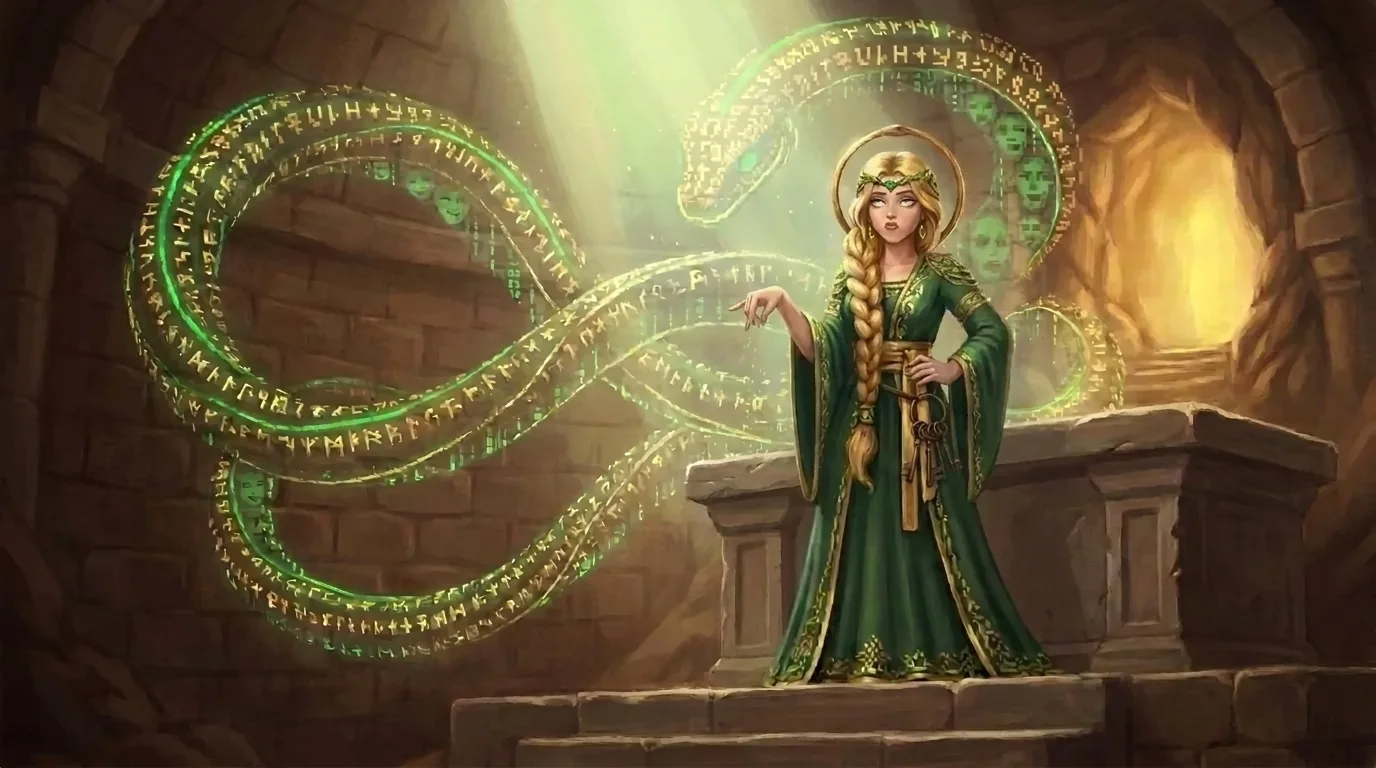
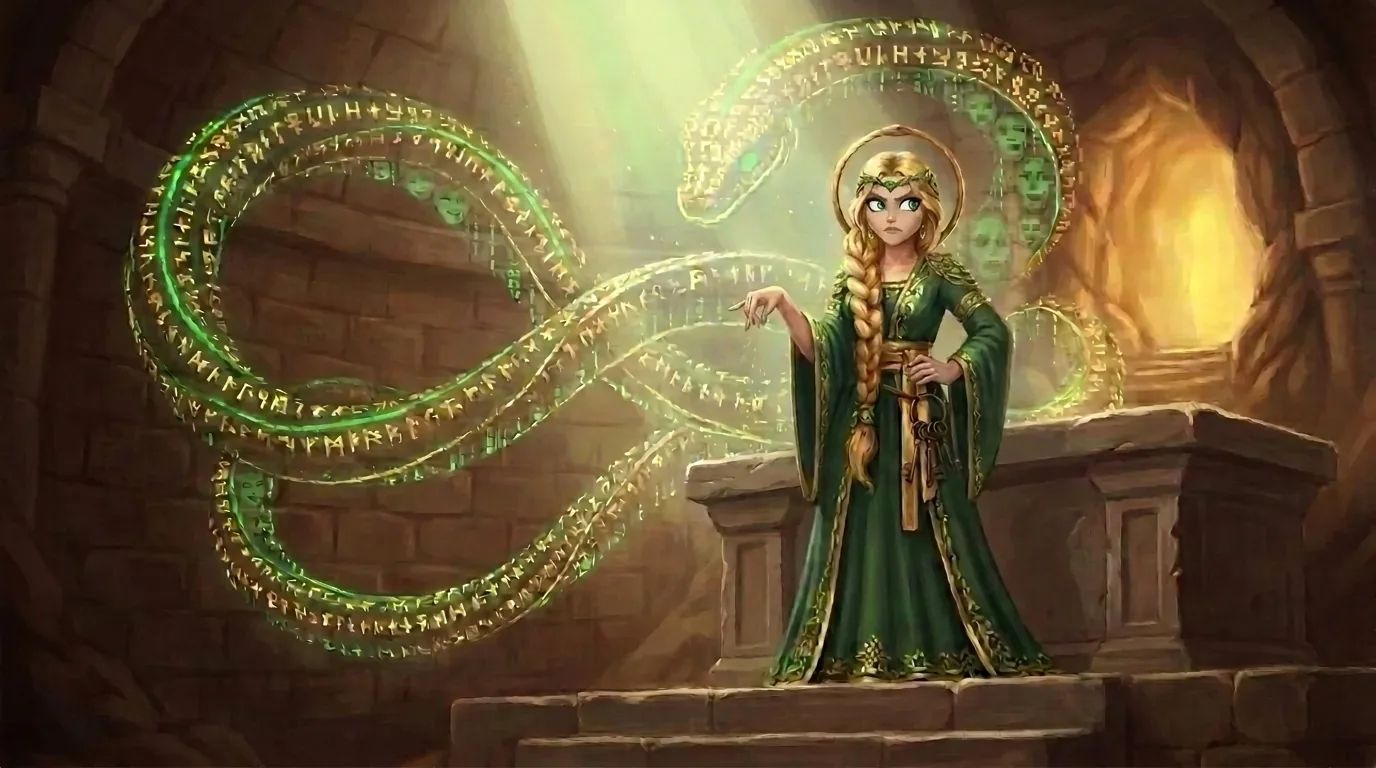
Reveal: Freya's reaction repainted as a flat, exasperated stare toward where Uptima was
Claude-Session: https://claude.ai/code/session_01KB4J3J5G6T3cjiYGmrWroc

diff --git a/game/js/cut-reveal.js b/game/js/cut-reveal.js
@@ -10,8 +10,8 @@
   const still = (id, label) => ['cut-' + id, { src: IMG + id + '.webp', label: id.replace(/-/g, ' ') + (label ? ': ' + label : '') }];
   // The locked pose: A, C and E are the pixel twins of B, D and F (the same frame, converted), so they line up.
   // G to I are the virus after she settles; G2 is G with a closed-mouth grimace; H2 is the promoter in H's pose, flashed twice;
-  // R is her eye-roll after Uptima goes quiet.
-  const PAINTED = { B: 'promoter', D: 'goddess', F: 'virus', G: 'hands folded', G2: 'hands folded, a closed-mouth grimace', H: 'one finger raised', H2: 'promoter, finger raised', R: 'an eye-roll', I: 'the basket' };
+  // R is her exasperated stare after Uptima goes quiet.
+  const PAINTED = { B: 'promoter', D: 'goddess', F: 'virus', G: 'hands folded', G2: 'hands folded, a closed-mouth grimace', H: 'one finger raised', H2: 'promoter, finger raised', R: 'exasperated', I: 'the basket' };
   // Each lead's walk frames and the one with her hand on their shoulder (Ladi, Oct 24): Kai's stops on her hand and Mira's
   // goes from her first step to the hand, as the wide carries her on; Dutch is first in line, so his hand comes second.
   const STEPS = { mira: 3, kai: 3, seoyeon: 4, dutch: 4 }, HANDS = { mira: 2, kai: 3, seoyeon: 3, dutch: 2 };
@@ -96,7 +96,7 @@
         // One finger, and Uptima turns to static; the friendly camp face flashes through twice (Ladi, Oct 22: once was
         // too quick to catch).
         ['cg', H, 'still'], ['sfx', 'static'], ['flick', [[H2, 100], [H, 160], [H2, 100], [H, 0]]], say(w[4]),
-        // "Some people can't take a compliment": Uptima gone, she rolls her eyes and flicks the static off her fingers; then
+        // "Some people can't take a compliment": Uptima gone, a flat, exasperated stare where Uptima was as she flicks the static off her fingers; then
         // the basket (Ladi, Oct 24).
         ['cg', R, 'in'], say(w[5]),
         ['cg', I, 'in'], say(w[6])

diff --git a/game/CREDITS.md b/game/CREDITS.md
@@ -13,7 +13,7 @@ Everything here was first made for or gathered by the first game, [Isekai'd Into
 | Chapter 1's painted prologue art: Mira's tower-stair background and the still of her holding Bram (`assets/img/vn/m1.webp`, `m2.webp`), and the sprites of Mira grieving and Freya smiling (`mira-grief.webp`, `freya-smile.webp`) | Generated for this game with Google's Gemini 3 Pro Image through the Gemini API on Ladi's account on 2026-10-20, painted from Ladi's concept-art picks, then resized (sprites cut out from a flat backdrop) | Used under the [Gemini API Additional Terms of Service](https://ai.google.dev/gemini-api/terms) | The visual-novel prologues (`js/vn.js`) |
 | The rest of the four backstories' stills, one per shot of the backstory storyboard (`assets/img/vn/m2b` to `m3c`, `k1` to `k3c`, `s0a` to `s7c`, `d1` to `d1c`) | Generated for this game with Google's Gemini image model (gemini-nano-banana-2.1) through the Gemini API on Ladi's account on 2026-10-21, from the agreed character designs, the two Mira stills above and Ladi's chosen Freya reference sheet; each Freya shot is an edit of the shot before it, then resized | Used under the [Gemini API Additional Terms of Service](https://ai.google.dev/gemini-api/terms) | The visual-novel prologues (`js/ch1-story.js`) |
 | The opening scene's painted stills: the lightning shots, the pavilion's two angles with Freya's eight faces, the close-ups and inserts, and the closing shot of Freya alone (`assets/img/opening/*.webp`) | Generated for this game with Google's Gemini image model (gemini-nano-banana-2.1) through the Gemini API on Ladi's account on 2026-10-21, from Ladi's chosen Freya reference sheet and the storyboard; faces swapped in with a masked edit, then resized; the ID photos on the files repainted as the four leads (Mira, Kai, Seo-yeon, Dutch, from their PixelLab portraits) the same way, with the hand-on-the-file shot in one version per lead (`s12-<lead>.webp`) | Used under the [Gemini API Additional Terms of Service](https://ai.google.dev/gemini-api/terms) | The opening, "the files" (`js/vec-open.js`) |
-| Chapter 1's reveal stills (`assets/img/cut/reveal-*.webp`): the vault, the party and Freya's walk past each lead, the keys, Freya's faces in the locked pose and the virus after it | Generated for this game with Google's Gemini image model (gemini-3-pro-image-preview) through the Gemini API on Ladi's account on 2026-10-21 and 2026-10-22, from the storyboard (`storyboard/ch1/12-the-reveal.md`), the leads' and Freya's sprites and portraits as references: one wide painting of the vault, widened from the goddess still, and every other shot an edit or a crop of it. The shots were re-staged on 2026-10-22 from a new wide picture: the leads turning to Freya, their shocked close-ups, Uptima faint in the alcove light, the basket with the four presents, and Freya's closed-mouth grimace (`reveal-G2.webp`). `reveal-5.webp` was edited the same day so Freya looks up at Uptima, mouth closed, and Uptima looks down at her; `reveal-1.webp` so Freya in the alcove looks at the keys; `reveal-3.webp` has the leads facing the altar; and `reveal-3b.webp` is a new shot from behind Freya in the doorway, the leads' faces as they turn to her. On 2026-10-24 Freya's walk was redrawn so the motion reads (same model, from the vault picture with everyone but Freya painted out, and Freya's painted still and goddess concept art as references): her leaving the doorway (`reveal-door.webp`), three or four frames past each lead (`reveal-<lead>-w1.webp` on), crossing the empty spot (`reveal-spot.webp`), climbing the steps (`reveal-steps.webp`) and her hand on the keys from behind (`reveal-4d.webp`); Freya was matched to her design in `reveal-1`, `reveal-3` and `reveal-4`, and Uptima in `reveal-5` now looks down at her. Freya's eye-roll after Uptima goes quiet (`reveal-R.webp`) was painted the same day from `reveal-H.webp`. The three pixel glitch frames (`reveal-glitch.webp`: promoter, goddess, virus) are those paintings converted with [PixelLab](https://pixellab.ai)'s image-to-pixel-art on Ladi's subscription | Used under the [Gemini API Additional Terms of Service](https://ai.google.dev/gemini-api/terms) and PixelLab's [Terms of Service](https://pixellab.ai/termsofservice) | Chapter 1's ending (`js/cut-reveal.js`) |
+| Chapter 1's reveal stills (`assets/img/cut/reveal-*.webp`): the vault, the party and Freya's walk past each lead, the keys, Freya's faces in the locked pose and the virus after it | Generated for this game with Google's Gemini image model (gemini-3-pro-image-preview) through the Gemini API on Ladi's account on 2026-10-21 and 2026-10-22, from the storyboard (`storyboard/ch1/12-the-reveal.md`), the leads' and Freya's sprites and portraits as references: one wide painting of the vault, widened from the goddess still, and every other shot an edit or a crop of it. The shots were re-staged on 2026-10-22 from a new wide picture: the leads turning to Freya, their shocked close-ups, Uptima faint in the alcove light, the basket with the four presents, and Freya's closed-mouth grimace (`reveal-G2.webp`). `reveal-5.webp` was edited the same day so Freya looks up at Uptima, mouth closed, and Uptima looks down at her; `reveal-1.webp` so Freya in the alcove looks at the keys; `reveal-3.webp` has the leads facing the altar; and `reveal-3b.webp` is a new shot from behind Freya in the doorway, the leads' faces as they turn to her. On 2026-10-24 Freya's walk was redrawn so the motion reads (same model, from the vault picture with everyone but Freya painted out, and Freya's painted still and goddess concept art as references): her leaving the doorway (`reveal-door.webp`), three or four frames past each lead (`reveal-<lead>-w1.webp` on), crossing the empty spot (`reveal-spot.webp`), climbing the steps (`reveal-steps.webp`) and her hand on the keys from behind (`reveal-4d.webp`); Freya was matched to her design in `reveal-1`, `reveal-3` and `reveal-4`, and Uptima in `reveal-5` now looks down at her. Freya's exasperated stare after Uptima goes quiet (`reveal-R.webp`) was painted the same day from `reveal-H.webp`. The three pixel glitch frames (`reveal-glitch.webp`: promoter, goddess, virus) are those paintings converted with [PixelLab](https://pixellab.ai)'s image-to-pixel-art on Ladi's subscription | Used under the [Gemini API Additional Terms of Service](https://ai.google.dev/gemini-api/terms) and PixelLab's [Terms of Service](https://pixellab.ai/termsofservice) | Chapter 1's ending (`js/cut-reveal.js`) |
 | Chapters 3 to 5's cutscene stills (`assets/img/cut/<cutscene>.webp`, one sheet per cutscene from `ask` to `the-badge-on-the-nail`, plus Chapter 3's earlier cutscenes from `tax-season` to `tell-her-yourself`), one pixel-art still per storyboard shot | Generated for this game with [PixelLab](https://pixellab.ai) on Ladi's subscription on 2026-10-22, from the storyboards (`storyboard/ch3`, `ch4`, `ch5`) with the cast's sprites and each cutscene's wide shot as references. A few were mirrored, and some had one small part repainted (a sheathed knife, a sash, hair colour, windows, the writing in a letter, Kai's gold hand) by Google's Gemini image model (gemini-3-pro-image-preview) through the Gemini API on Ladi's account, snapped back to the still's own pixels and colours | Used under PixelLab's [Terms of Service](https://pixellab.ai/termsofservice); the repaints under the [Gemini API Additional Terms of Service](https://ai.google.dev/gemini-api/terms) | Chapters 3 to 5's cutscenes, in place of the vector stills (`js/cut-ch3.js`, `cut-ch4.js`, `cut-ch4b.js`, `cut-ch5.js`) |
 | The opening's and the backstory cutscenes' voice lines (`assets/audio/vo/*.mp3`) | Generated for this game with Google's Gemini text-to-speech through the Gemini API on Ladi's account on 2026-10-21: Freya and Kagemaru on gemini-3.8-flash-tts (Freya: Despina, Kagemaru: Algenib; `freya-*` and `man-op-*`), Mira and Seo-yeon on gemini-3.8-flash-lite-tts (Mira: Gacrux, Seo-yeon: Kore), Dutch and Kai on gemini-2.5-pro-preview-tts (Dutch: Charon, Kai: Alnilam), and the people they lost on gemini-2.5-pro-preview-tts (Bram: Sadachbia, Hana: Leda, Jin: Fenrir, Old Gu: Enceladus, the Alliance Leader: Iapetus, Lina: Zephyr), trimmed | Used under the [Gemini API Additional Terms of Service](https://ai.google.dev/gemini-api/terms) | The spoken lines in the visual-novel scenes (`js/vo.js`) |
 | Chapter 2's voice lines (`assets/audio/vo/*-c2-*.mp3`) | Generated for this game with Google's Gemini text-to-speech through the Gemini API on Ladi's account on 2026-10-21, 2026-10-22 and 2026-10-23, trimmed: Mira (Gacrux) and Seo-yeon (Kore) on gemini-3.8-flash-lite-tts; Kai (Alnilam) and Dutch (Charon) on gemini-2.5-pro-preview-tts; Seymour (Orus) and Elder Wren, faithful (Sadaltager) on gemini-2.5-flash-preview-tts; Coo (Puck) on gemini-3.1-flash-tts-preview; Freya (Despina) on gemini-3.8-flash-tts | Used under the [Gemini API Additional Terms of Service](https://ai.google.dev/gemini-api/terms) | Chapter 2 act 1's spoken lines (`js/vo-c2.js`) |
